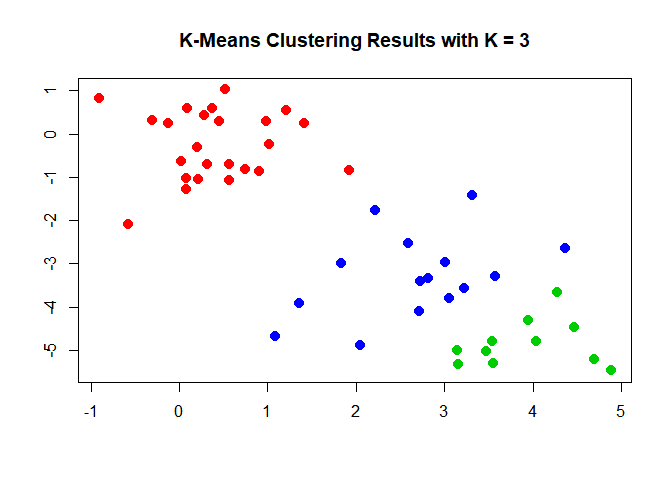
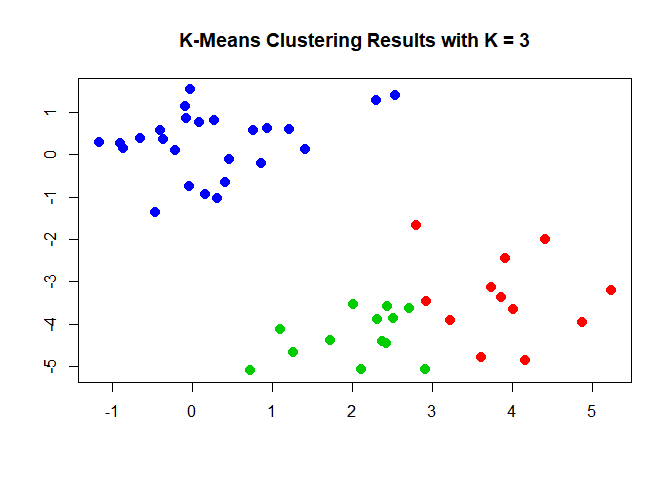
Update chapter 10.Rmd

diff --git a/chapter 10/before10.md b/chapter 10/before10.md
@@ -35,7 +35,7 @@ write.csv(USArrests, "USArrests.csv", row.names = T, quote = F)
 ```
 
 ``` r
-NCI60_ = cbind(NCI60$data, NCI60$labs)
+NCI60_ = cbind(NCI60$labs, NCI60$data)
 write.csv(NCI60_, "NCI60.csv", row.names = F, quote = F)
 ```
 
@@ -175,8 +175,8 @@ km.out = kmeans(X, 2, nstart = 20)
 km.out$cluster
 ```
 
-    ##  [1] 1 1 1 1 1 1 1 1 1 1 1 1 1 1 1 1 1 1 1 1 1 1 1 1 1 2 2 2 2 2 2 2 2 2 2 2 2 2
-    ## [39] 2 2 2 2 2 2 2 2 2 2 2 2
+    ##  [1] 2 2 2 2 2 2 2 2 2 2 2 2 2 2 2 2 2 2 2 2 2 2 2 2 2 1 1 1 1 1 1 1 1 1 1 1 1 1
+    ## [39] 1 1 1 1 1 1 1 1 1 1 1 1
 
   - perfectly separate
 
@@ -194,21 +194,21 @@ km.out = kmeans(X, 3, nstart = 20)
 km.out
 ```
 
-    ## K-means clustering with 3 clusters of sizes 24, 11, 15
+    ## K-means clustering with 3 clusters of sizes 12, 13, 25
     ## 
     ## Cluster means:
-    ##        [,1]       [,2]
-    ## 1 0.4196481 -0.2605603
-    ## 2 3.9215091 -4.8513233
-    ## 3 2.6616783 -3.2881804
+    ##       [,1]       [,2]
+    ## 1 3.893515 -3.3753727
+    ## 2 2.046009 -4.2907388
+    ## 3 0.258851  0.2706826
     ## 
     ## Clustering vector:
-    ##  [1] 3 2 3 2 2 3 2 3 3 2 3 3 3 3 3 2 2 3 3 2 2 3 3 2 2 3 1 1 1 1 1 1 1 1 1 1 1 1
-    ## [39] 1 1 1 1 1 1 1 1 1 1 1 1
+    ##  [1] 2 2 1 1 2 1 2 1 2 2 1 1 1 1 1 1 2 2 1 2 1 2 2 2 2 3 3 3 3 3 3 3 3 3 3 3 3 3
+    ## [39] 3 3 3 3 3 3 3 3 3 3 3 3
     ## 
     ## Within cluster sum of squares by cluster:
-    ## [1] 23.865876  6.454541 23.198084
-    ##  (between_SS / total_SS =  84.5 %)
+    ## [1] 16.412739  9.222623 34.250231
+    ##  (between_SS / total_SS =  84.6 %)
     ## 
     ## Available components:
     ## 
@@ -231,7 +231,7 @@ km.out = kmeans(X, 3, nstart = 1)
 km.out$tot.withinss
 ```
 
-    ## [1] 64.92327
+    ## [1] 71.85438
 
 > nstart: the number of repeat
 
@@ -240,7 +240,7 @@ km.out = kmeans(X, 3, nstart = 20)
 km.out$tot.withinss
 ```
 
-    ## [1] 53.5185
+    ## [1] 59.88559
 
 > tot.withinss: total inner-variance
 
@@ -265,22 +265,22 @@ plot(hc.single, main = "Single Linkage", xlab = "", ylab = "", sub = "", cex = .
 cutree(hc.complete, 2)
 ```
 
-    ##  [1] 1 1 1 1 1 1 1 1 1 1 1 1 1 1 1 1 1 1 1 1 1 1 1 1 1 1 2 2 2 2 2 2 2 2 2 2 2 2
-    ## [39] 2 2 2 2 2 2 2 2 2 2 2 1
+    ##  [1] 1 1 1 1 1 1 1 1 1 1 1 1 1 1 1 1 1 1 1 1 1 1 1 1 1 2 2 2 2 2 2 2 2 2 2 2 2 2
+    ## [39] 2 2 2 2 2 2 2 2 2 2 2 2
 
 ``` r
 cutree(hc.average, 2)
 ```
 
-    ##  [1] 1 1 1 1 1 1 1 1 1 1 1 1 1 1 1 1 1 1 2 1 1 1 1 1 1 1 2 2 2 2 2 2 2 2 2 2 2 2
+    ##  [1] 1 1 1 1 1 1 1 1 1 1 1 1 1 1 1 1 1 1 1 1 1 1 1 1 1 2 2 2 2 2 2 2 2 2 2 2 2 2
     ## [39] 2 2 2 2 2 2 2 2 2 2 2 2
 
 ``` r
 cutree(hc.single, 2)
 ```
 
-    ##  [1] 1 1 1 1 1 1 1 1 1 1 1 1 1 1 1 1 1 1 2 1 1 1 1 1 1 1 1 1 1 1 1 1 1 1 1 1 1 1
-    ## [39] 1 1 1 1 1 1 1 1 1 1 1 1
+    ##  [1] 1 1 1 1 1 1 1 1 1 1 1 1 1 1 1 1 1 1 1 1 1 1 1 1 1 2 2 2 2 2 2 2 2 2 2 2 2 2
+    ## [39] 2 2 2 2 2 2 2 2 2 2 2 2
 
 alike and differ
 
@@ -512,10 +512,10 @@ table(km.clusters, hc.clusters)
 
     ##            hc.clusters
     ## km.clusters  1  2  3  4
-    ##           1 11  0  0  9
-    ##           2 20  7  0  0
-    ##           3  9  0  0  0
-    ##           4  0  0  8  0
+    ##           1  9  0  0  0
+    ##           2 11  0  0  9
+    ##           3  0  0  8  0
+    ##           4 20  7  0  0
 
   - hierarchical is un-realistic
 
